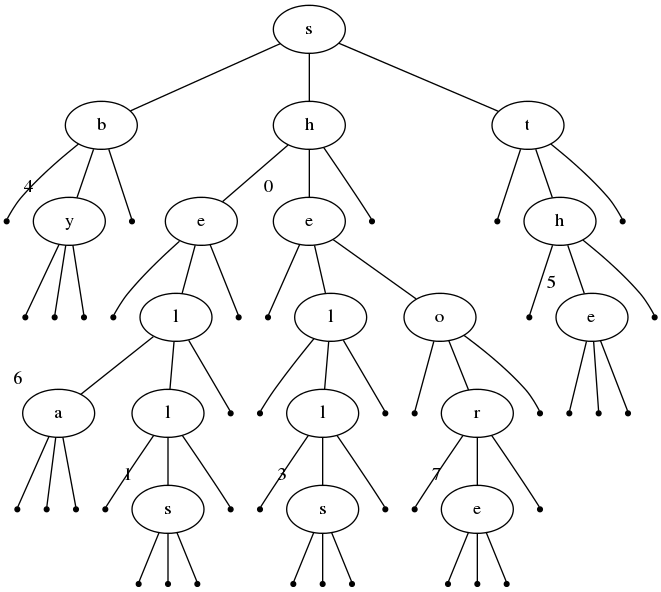
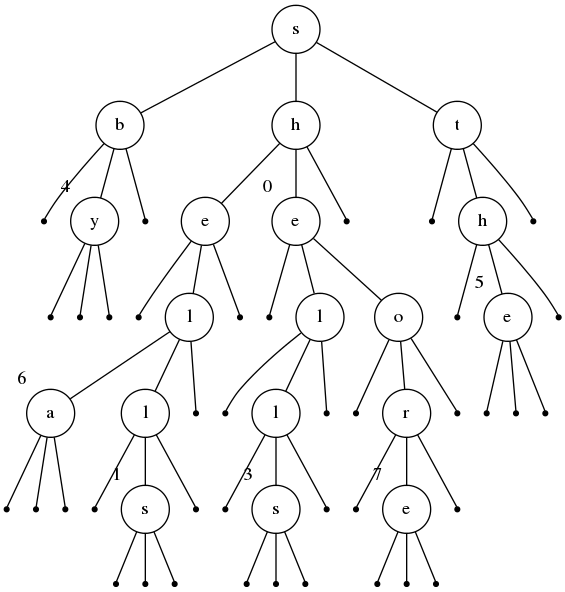
Add org

diff --git a/ch5/TSTMap.java b/ch5/TSTMap.java
@@ -3,146 +3,6 @@ import java.util.ArrayDeque;
 
 import edu.princeton.cs.algs4.*;
 
-/*
-#+NAME: tst
-#+BEGIN_SRC sh :results output drawer
-make run CLASS=TSTMap ARGS=she-sells.txt <<EOF
-dot
-EOF
-#+END_SRC
-
-#+RESULTS: tst
-:RESULTS:
-graph {
-  2 [shape=point];
-  4 [shape=point];
-  5 [shape=point];
-  6 [shape=point];
-  3 [label="y" xlabel="4"];
-  3 -- 4;
-  3 -- 5;
-  3 -- 6;
-  8 [shape=point];
-  1 [label="b"];
-  1 -- 2;
-  1 -- 3;
-  1 -- 8;
-  12 [shape=point];
-  15 [shape=point];
-  16 [shape=point];
-  17 [shape=point];
-  14 [label="a" xlabel="6"];
-  14 -- 15;
-  14 -- 16;
-  14 -- 17;
-  20 [shape=point];
-  22 [shape=point];
-  23 [shape=point];
-  24 [shape=point];
-  21 [label="s" xlabel="1"];
-  21 -- 22;
-  21 -- 23;
-  21 -- 24;
-  26 [shape=point];
-  19 [label="l"];
-  19 -- 20;
-  19 -- 21;
-  19 -- 26;
-  28 [shape=point];
-  13 [label="l"];
-  13 -- 14;
-  13 -- 19;
-  13 -- 28;
-  30 [shape=point];
-  11 [label="e"];
-  11 -- 12;
-  11 -- 13;
-  11 -- 30;
-  33 [shape=point];
-  35 [shape=point];
-  37 [shape=point];
-  39 [shape=point];
-  40 [shape=point];
-  41 [shape=point];
-  38 [label="s" xlabel="3"];
-  38 -- 39;
-  38 -- 40;
-  38 -- 41;
-  43 [shape=point];
-  36 [label="l"];
-  36 -- 37;
-  36 -- 38;
-  36 -- 43;
-  45 [shape=point];
-  34 [label="l"];
-  34 -- 35;
-  34 -- 36;
-  34 -- 45;
-  48 [shape=point];
-  50 [shape=point];
-  52 [shape=point];
-  53 [shape=point];
-  54 [shape=point];
-  51 [label="e" xlabel="7"];
-  51 -- 52;
-  51 -- 53;
-  51 -- 54;
-  56 [shape=point];
-  49 [label="r"];
-  49 -- 50;
-  49 -- 51;
-  49 -- 56;
-  58 [shape=point];
-  47 [label="o"];
-  47 -- 48;
-  47 -- 49;
-  47 -- 58;
-  32 [label="e" xlabel="0"];
-  32 -- 33;
-  32 -- 34;
-  32 -- 47;
-  61 [shape=point];
-  10 [label="h"];
-  10 -- 11;
-  10 -- 32;
-  10 -- 61;
-  64 [shape=point];
-  66 [shape=point];
-  68 [shape=point];
-  69 [shape=point];
-  70 [shape=point];
-  67 [label="e" xlabel="5"];
-  67 -- 68;
-  67 -- 69;
-  67 -- 70;
-  72 [shape=point];
-  65 [label="h"];
-  65 -- 66;
-  65 -- 67;
-  65 -- 72;
-  74 [shape=point];
-  63 [label="t"];
-  63 -- 64;
-  63 -- 65;
-  63 -- 74;
-  0 [label="s"];
-  0 -- 1;
-  0 -- 10;
-  0 -- 63;
-}
-
-:END:
-
-#+BEGIN_SRC dot :file tstmap.png :var src=tst
-$src
-#+END_SRC
-
-#+RESULTS:
-[[file:tstmap.png]]
-
-
-*/
-
 public class TSTMap<Value> {
     private Node root;
     private int size;
@@ -257,6 +117,7 @@ public class TSTMap<Value> {
     public String toDot() {
         StringBuilder sb = new StringBuilder();
         sb.append("graph {\n");
+        sb.append("  node " + attrs(shape("circle")) + "\n");
         toDot(root, 0, sb);
         sb.append("}\n");
         return sb.toString();
@@ -264,19 +125,19 @@ public class TSTMap<Value> {
 
     private int toDot(Node x, int id, StringBuilder sb) {
         if (x == null) {
-            sb.append("  " + id + " " + attrs(point()) + ";\n");
+            sb.append("  " + id + " " + attrs(shape("point")) + "\n");
             return id+1;
         }
         int idLeft  = toDot(x.left , id+1  , sb);
         int idMid   = toDot(x.mid  , idLeft, sb);
         int idRight = toDot(x.right, idMid , sb);
-        sb.append("  " + id + " " + attrs(label(x.c), xlabel(x.val)) + ";\n");
+        sb.append("  " + id + " " + attrs(label(x.c), xlabel(x.val)) + "\n");
         // link to left subtree
-        sb.append("  " + id + " -- " + (id+1) + ";\n");
+        sb.append("  " + id + " -- " + (id+1) + "\n");
         // link to mid subtree
-        sb.append("  " + id + " -- " + idLeft + ";\n");
+        sb.append("  " + id + " -- " + idLeft + "\n");
         // link to right subtree
-        sb.append("  " + id + " -- " + idMid + ";\n");
+        sb.append("  " + id + " -- " + idMid + "\n");
         return idRight+1;
     }
 
@@ -300,8 +161,8 @@ public class TSTMap<Value> {
         }
     }
 
-    private String point() {
-        return "shape=point";
+    private String shape(String s) {
+        return "shape=\"" + s + "\"";
     }
 
     public static void main(String[] args) {
